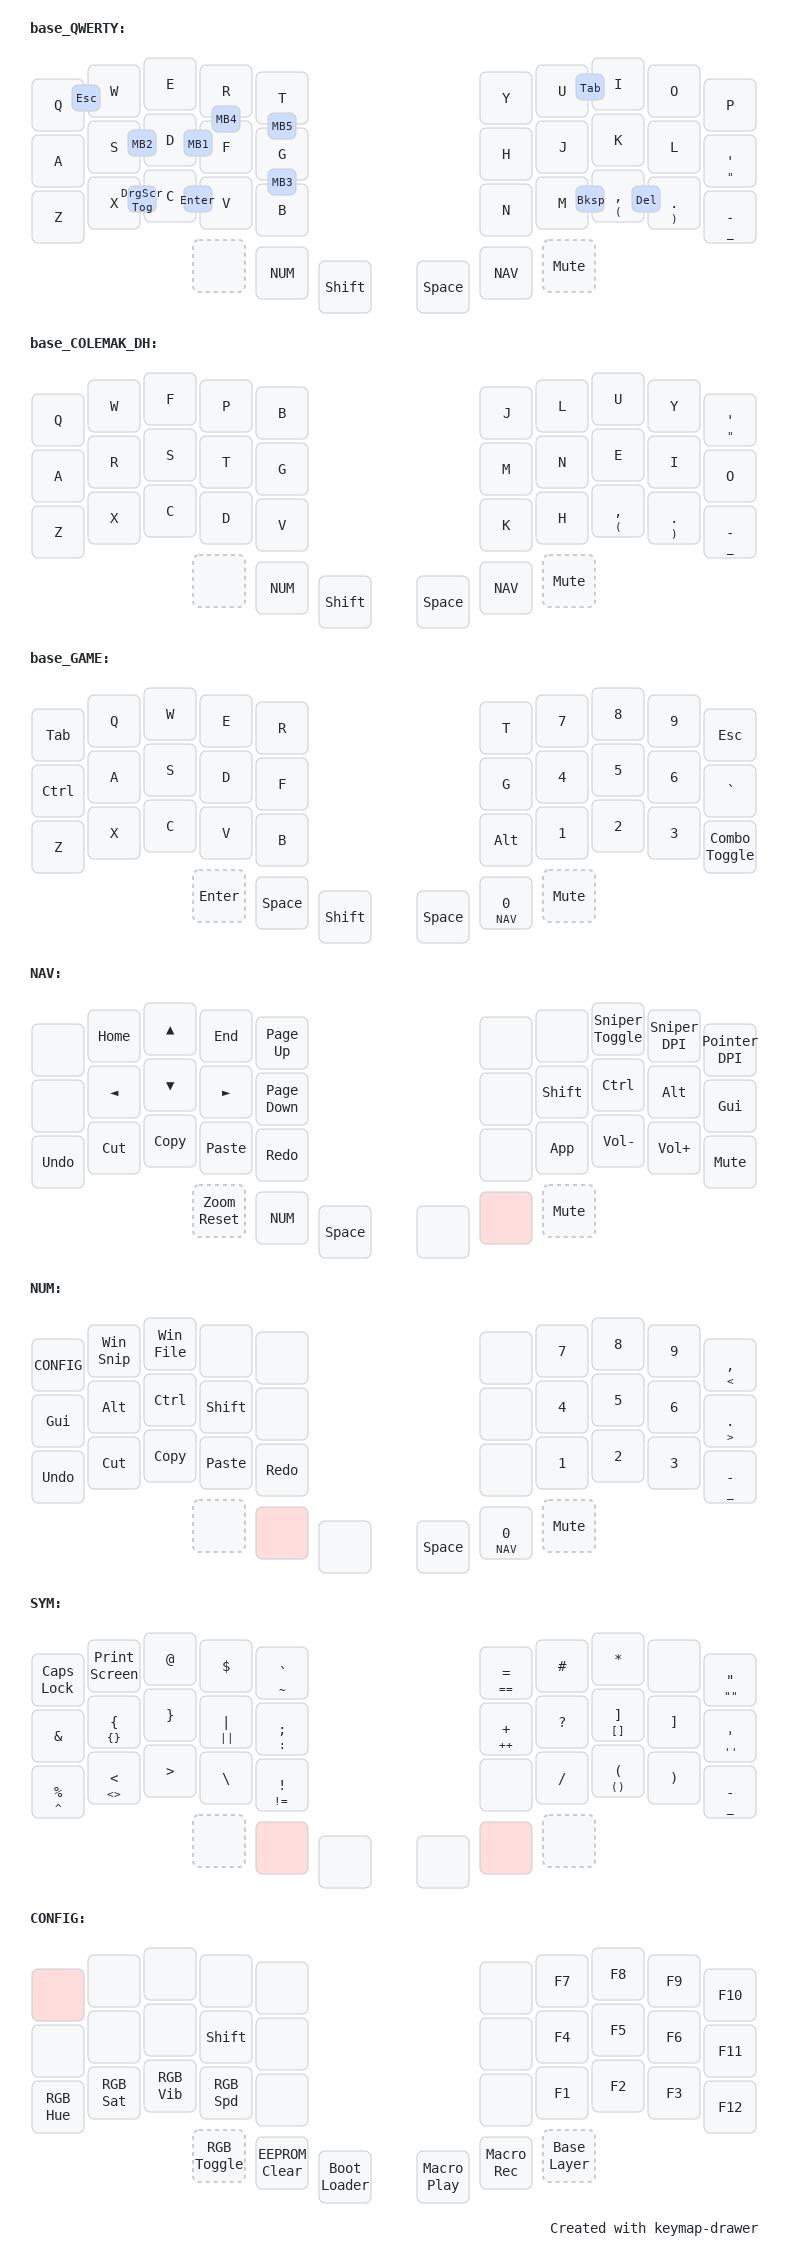
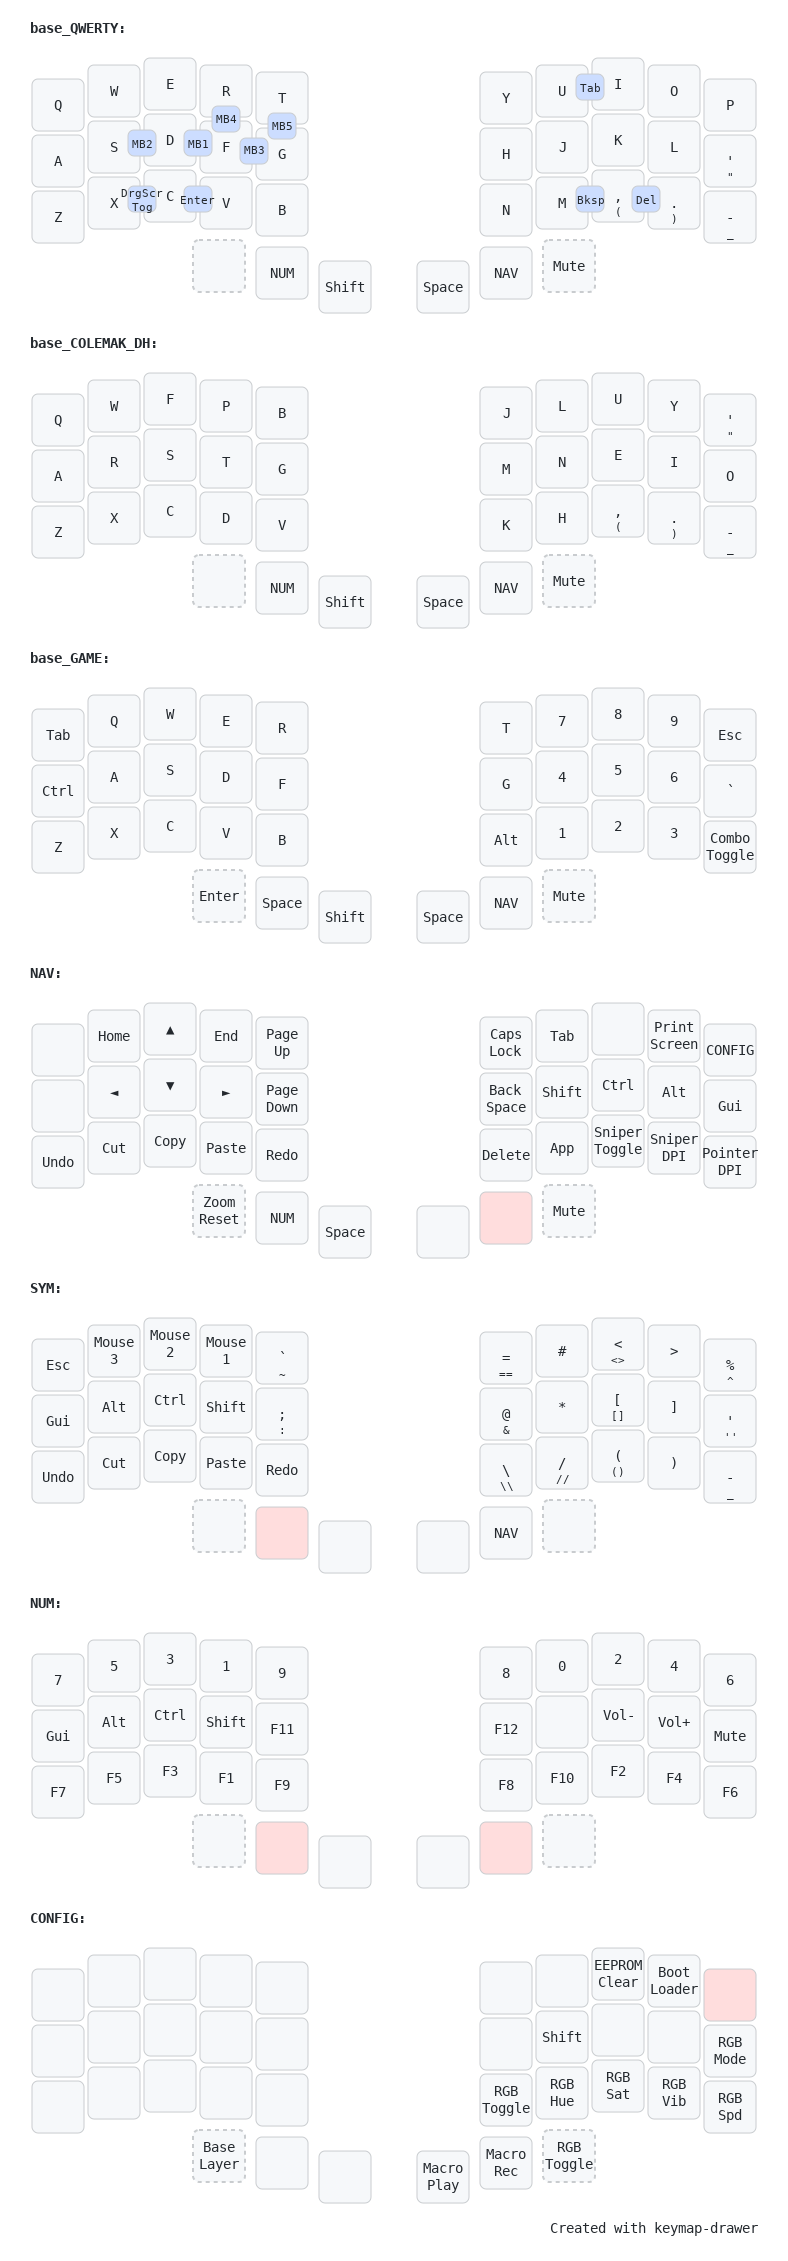
Cleaning up stuff - Updated Documentation and images - Change mouse button 3 combo

diff --git a/users/t4corun/features/combo.h b/users/t4corun/features/combo.h
@@ -6,7 +6,7 @@
 #if defined(MOUSEKEY_ENABLE)
 const uint16_t PROGMEM mou_btn1_combo[] = { KC_D,    KC_F,    COMBO_END };
 const uint16_t PROGMEM mou_btn2_combo[] = { KC_S,    KC_D,    COMBO_END };
-const uint16_t PROGMEM mou_btn3_combo[] = { KC_G,    KC_B,    COMBO_END };
+const uint16_t PROGMEM mou_btn3_combo[] = { KC_F,    KC_G,    COMBO_END };
 const uint16_t PROGMEM mou_btn4_combo[] = { KC_F,    KC_R,    COMBO_END };
 const uint16_t PROGMEM mou_btn5_combo[] = { KC_T,    KC_G,    COMBO_END };
 const uint16_t PROGMEM mou_drg_combo[]  = { KC_X,    KC_C,    COMBO_END };

diff --git a/README.md b/README.md
@@ -4,7 +4,7 @@ My userspace for building QMK firmware via GitHub Actions. This does not require
 
 ## Layout
 
-The custom layout optimizes for programming (SQL, Powershell, C) and minimizes holds for comfort. It started from [Manna Harbor Miryoku](https://github.com/manna-harbour/miryoku) and took heavy influence from [Jonas Hietala T-34](https://www.jonashietala.se/series/t-34/). The keymap designed for split 3x5, two thumbs keys, dual encoders, and combined with a Ploopy Nano trackball mouse. Design themes:
+The custom layout optimizes for programming (SQL, Powershell, C) and minimizes holds for comfort. It started from [Manna Harbor Miryoku](https://github.com/manna-harbour/miryoku), took heavy influence from [Jonas Hietala T-34](https://www.jonashietala.se/series/t-34/), and trying to achieve [Callum's Minimal Layout](https://github.com/qmk/qmk_firmware/tree/user-keymaps-still-present/users/callum). The keymap designed for split 3x5, two thumbs keys, dual encoders, and combined with a Ploopy Nano trackball mouse. Design themes:
 
 - Releasing all keys always brings you back to base layer
 - Keeping certain keys consistent on all layers for better muscle memory
@@ -33,7 +33,7 @@ In this userspace, the base split 3x5_3 layout can be adapted for other split ke
 
 ### Tri-Layer
 
-Hold both thumb momentary layer keys `NUMBER` and `NAVIGATION` to access the `SYMBOL` layer
+Hold both thumb momentary layer keys `NAVIGATION` and `SYMBOL` to access the `NUMBER` layer
 
 ### One Shot Mods
 
@@ -55,15 +55,11 @@ Certain keys have different behaviors when held vs tapped allowing commonly type
 | Keycode   | When tapped | When held               | Comments                          |
 | --------- | ----------- | ----------------------- | --------------------------------- |
 | `TR_LBRC` | `[`         | `[]` with cursor inside |                                   |
-| `TH_LCBR` | `{`         | `{}` with cursor inside |                                   |
 | `TR_LABK` | `<`         | `<>` with cursor inside |                                   |
 | `TR_LPRN` | `(`         | `()` with cursor inside |                                   |
 | `TR_SQUO` | `'`         | `''` with cursor inside |                                   |
-| `TR_DQUO` | `"`         | `""` with cursor inside |                                   |
 | `TR_EQL`  | `=`         | `==`                    |                                   |
-| `TR_PLUS` | `+`         | `++`                    |                                   |
-| `TR_PIPE` | `\|`        | `\|\|`                  |                                   |
-| `TR_EXLM` | `!`         | `!=`                    |                                   |
+| `TR_EXLM` | `!`         | `$`                     |                                   |
 | `TR_COMM` | `,`         | `(`                     | enables parenthesis on base layer |
 | `TR_DOT`  | `.`         | `)`                     |                                   |
 | `TR_PERC` | `%`         | `^`                     |                                   |
@@ -71,6 +67,7 @@ Certain keys have different behaviors when held vs tapped allowing commonly type
 | `TR_GRV`  | `           | `~`                     |                                   |
 | `TR_SCLN` | `;`         | `:`                     |                                   |
 | `TR_QUOT` | `'`         | `"`                     |                                   |
+| `TR_AT`   | `@`         | `&`                     |                                   |
 
 ### Combos
 
